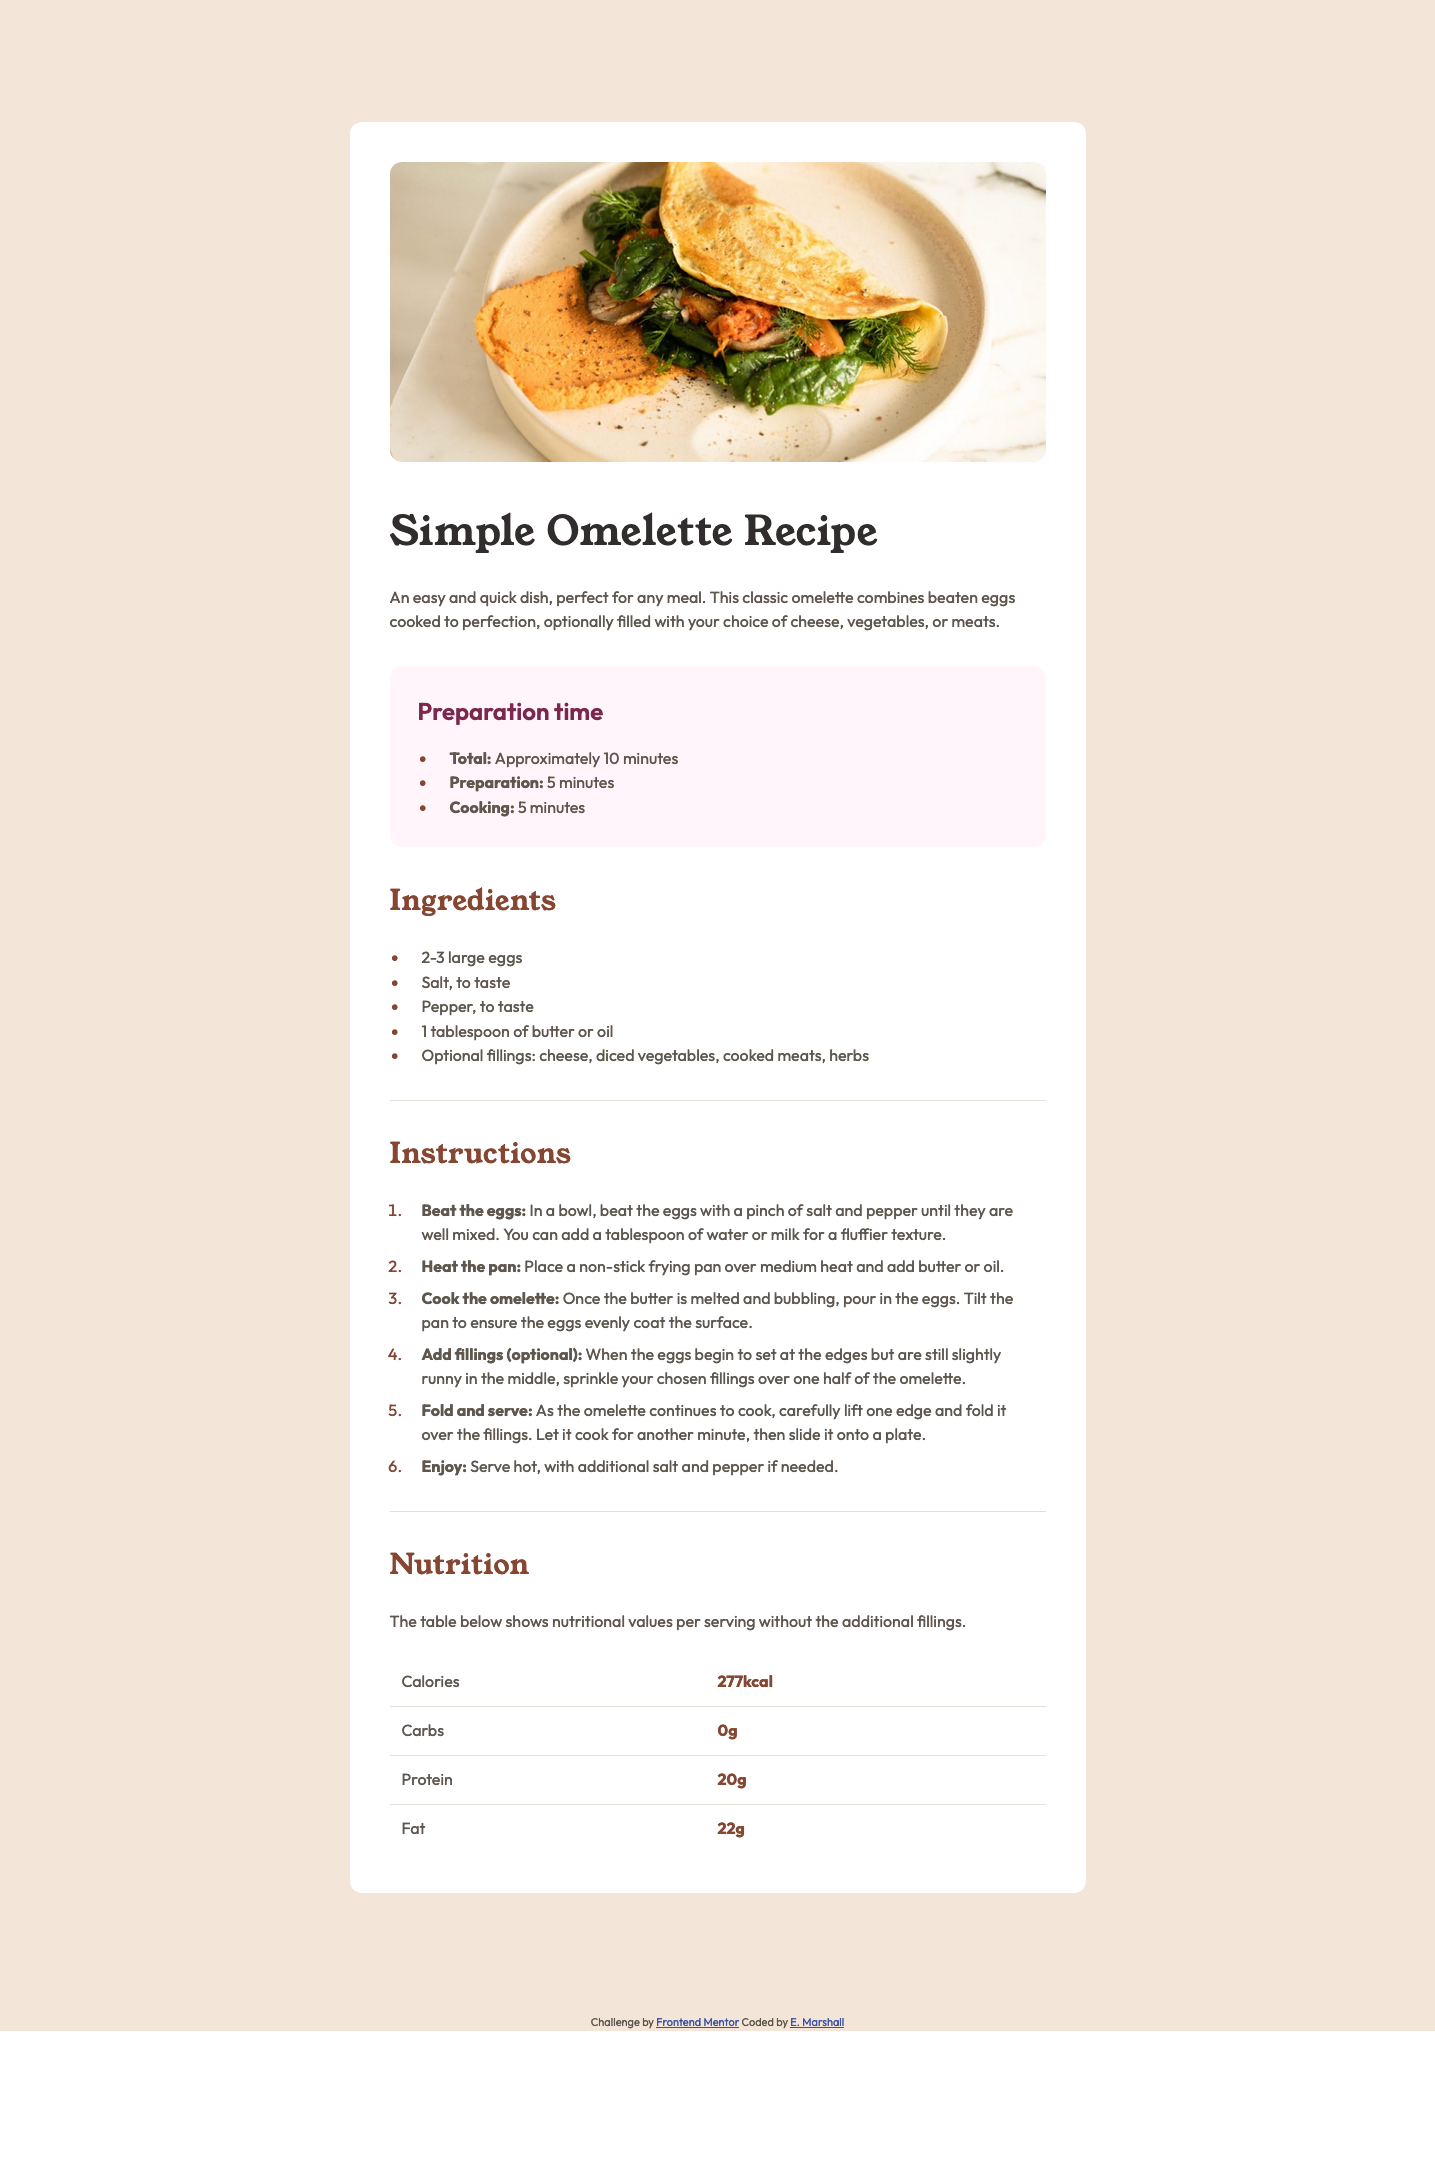
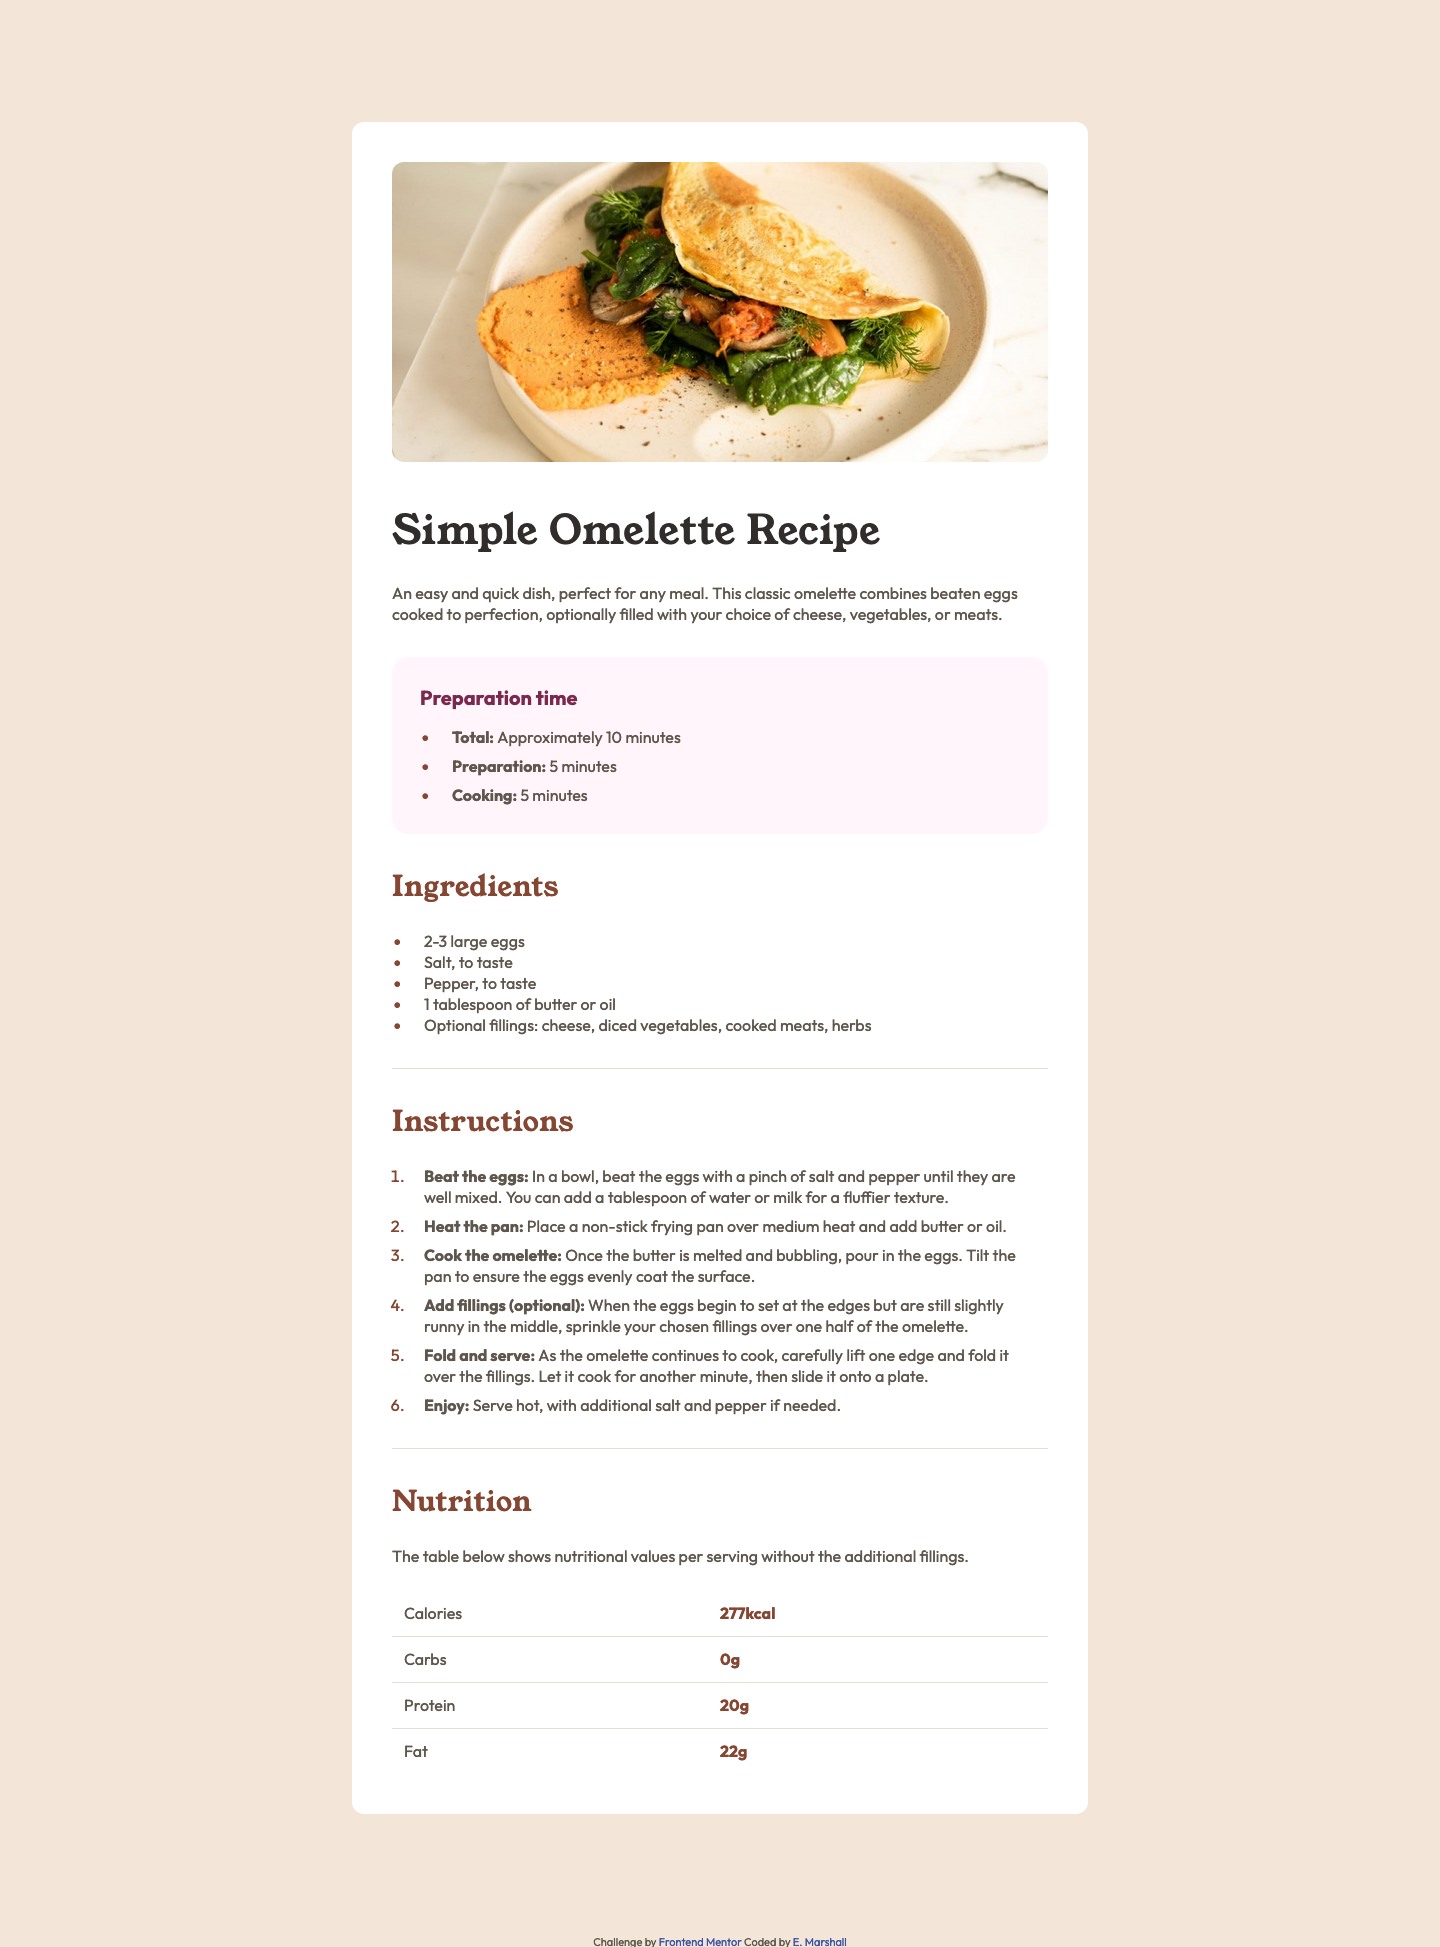
refactor code update screenshot

Changed region(s): [[0.0, 0.0308, 1.0, 1.0], [0.4599, 0.4622, 0.4906, 0.4931]]

diff --git a/styles.css b/styles.css
@@ -122,7 +122,7 @@ table {
   background-color: var(--neutral-rose-white);
 }
 .prep-time-title {
-  font-size: 1.75rem;
+  font-size: 1.25rem;
   color: var(--primary-dark-raspberry);
   margin-bottom: 1rem;
   font-weight: var(--font-weight-heavy);

diff --git a/README.md b/README.md
@@ -21,11 +21,9 @@ This is a solution to the [Recipe page challenge on Frontend Mentor](https://www
 
 ![Desktop](assets/images/update-recipe-page.png)
 
-[Mobile](assets/images/mobile.png)
-
 ### Links
 
-- Solution URL: [Add solution URL here](https://your-solution-url.com)
+- Solution URL: [solution URL here](https://your-solution-url.com)
 - Live Site URL: [live site URL here](https://omelete-recipe-page.netlify.app/)
 
 ## My process
